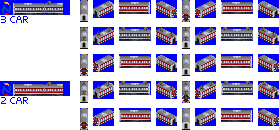
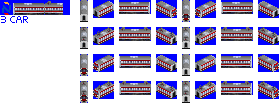
2023.2.15 니시테츠 9000형 편성 수정, #5 추가

diff --git a/docs/changelog.md b/docs/changelog.md
@@ -3,6 +3,7 @@
 * 니시테츠 9000형 2car버전 (추가)
 * 니시테츠 1000형 (추가)
 * 니시테츠 2000형 (추가)
+* 니시테츠 3000형 (추가)
 
 2022.07.26
 -----
